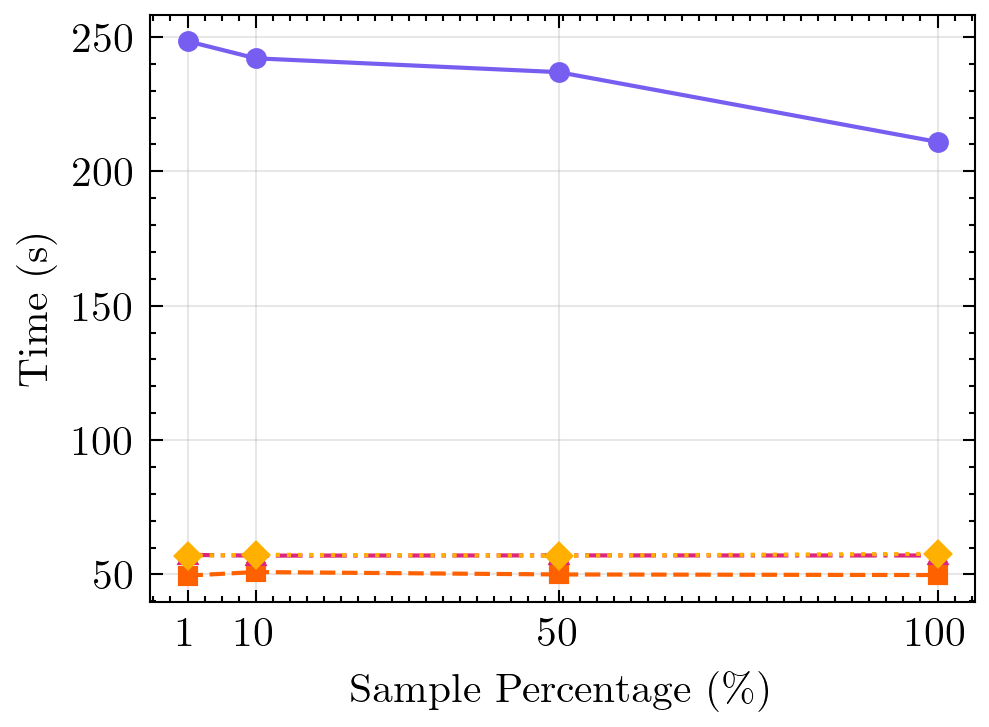
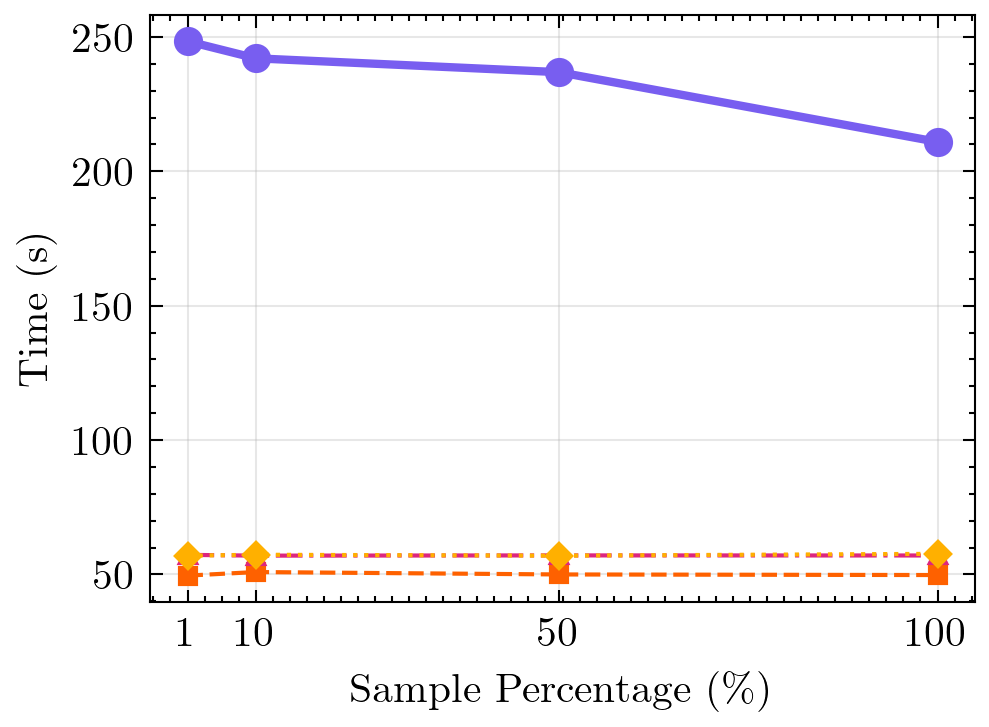
Line and marker thicker - vcf2db

Changed region(s): [[0.182, 0.0303, 0.9707, 0.2118]]

diff --git a/src/plot_queries_scaling.py b/src/plot_queries_scaling.py
@@ -27,7 +27,8 @@ for query in queries:
         for i, solution in enumerate(solutions):
             solution_data = df[(df['solution'] == solution) & (df['cache'] == 'cold')]
             cold_means = solution_data.groupby('sample_percentage')['timing'].mean()
-            ax1.plot(cold_means.index, cold_means.values, marker=markers[i % len(markers)], linestyle=linestyles[i % len(linestyles)], markersize=4, label=solution)
+            lw, ms = (2, 6) if solution == 'vcf2db' else (1, 4)
+            ax1.plot(cold_means.index, cold_means.values, marker=markers[i % len(markers)], linestyle=linestyles[i % len(linestyles)], markersize=ms, linewidth=lw, label=solution)
 
         ax1.set_xlabel('Sample Percentage (\%)')
         ax1.set_ylabel('Time (s)')
@@ -46,7 +47,8 @@ for query in queries:
         for i, solution in enumerate(solutions):
             solution_data = df[(df['solution'] == solution) & (df['cache'] == 'warm')]
             warm_means = solution_data.groupby('sample_percentage')['timing'].mean()
-            ax2.plot(warm_means.index, warm_means.values, marker=markers[i % len(markers)], linestyle=linestyles[i % len(linestyles)], markersize=4, label=solution)
+            lw, ms = (2, 6) if solution == 'vcf2db' else (1, 4)
+            ax2.plot(warm_means.index, warm_means.values, marker=markers[i % len(markers)], linestyle=linestyles[i % len(linestyles)], markersize=ms, linewidth=lw, label=solution)
 
         ax2.set_xlabel('Sample Percentage (\%)')
         ax2.set_ylabel('Time (s)')
@@ -62,7 +64,8 @@ for query in queries:
 # Standalone legend
 fig_leg, ax_leg = plt.subplots()
 for i, solution in enumerate(solutions):
-    ax_leg.plot([], [], marker=markers[i % len(markers)], linestyle=linestyles[i % len(linestyles)], markersize=4, label=solution)
+    lw, ms = (2, 6) if solution == 'vcf2db' else (1, 4)
+    ax_leg.plot([], [], marker=markers[i % len(markers)], linestyle=linestyles[i % len(linestyles)], markersize=ms, linewidth=lw, label=solution)
 legend = ax_leg.legend(ncol=1, loc='center', fontsize=7, frameon=True)
 ax_leg.set_axis_off()
 fig_leg.set_size_inches(legend.get_window_extent().width / fig_leg.dpi,
